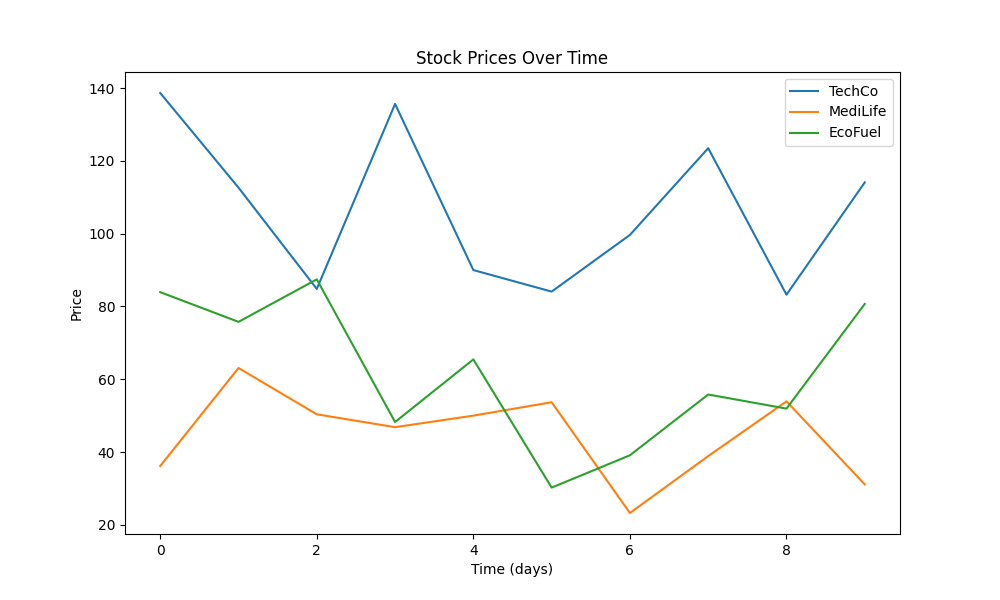
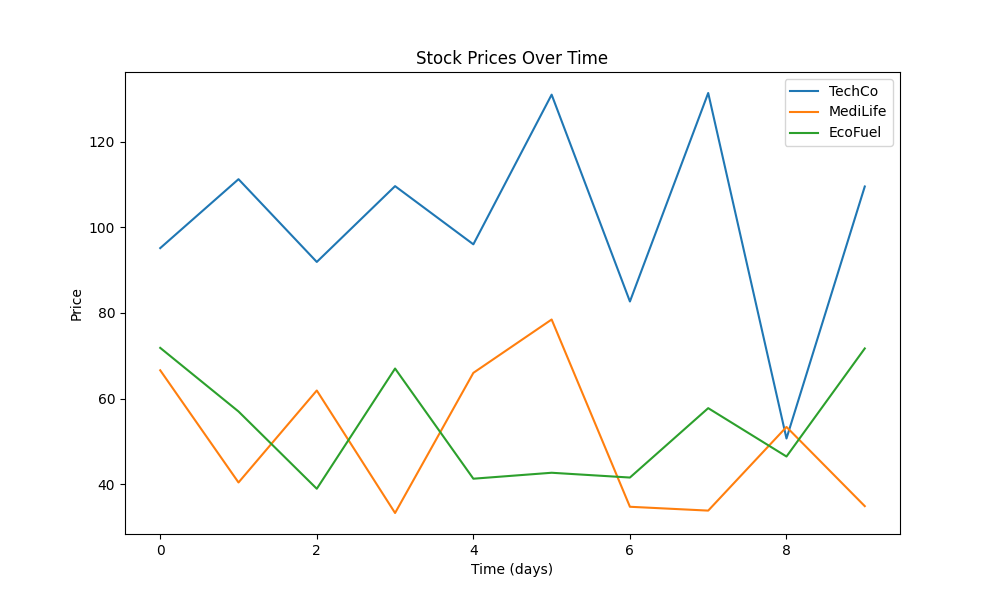
WIP Stocks 1.0

diff --git a/templates/stock_market.html b/templates/stock_market.html
@@ -5,49 +5,55 @@
     <meta name="viewport" content="width=device-width, initial-scale=1.0">
     <title>Investment Center</title>
     <link rel="stylesheet" type="text/css" href="{{ url_for('static', filename='css/styles.css') }}">
+    <script>
+        // JavaScript for showing stock list on hover
+        function showStocks(category) {
+            document.getElementById(category).style.display = 'block';
+        }
+
+        function hideStocks(category) {
+            document.getElementById(category).style.display = 'none';
+        }
+    </script>
 </head>
 <body>
     <div class="container">
         <h1>Investment Center</h1>
-        <p>Here you can buy or sell stocks.</p>
+        <p>Hover over a category to view stocks, and click a stock to view its graph.</p>
 
-        <!-- Stock list with buy/sell buttons -->
-        <div class="stock-list">
+        <!-- Stock categories with hover effect -->
+        <div class="stock-categories">
             {% for category, stocks in stock_market.items() %}
-            <h2>{{ category }} Stocks</h2>
-            <table>
-                <tr>
-                    <th>Stock</th>
-                    <th>Price</th>
-                    <th>Action</th>
-                </tr>
-                {% for stock, price in stocks.items() %}
-                <tr>
-                    <td>{{ stock }}</td>
-                    <td>${{ price }}</td>
-                    <td>
-                        <form action="/buy_stock" method="POST">
-                            <input type="hidden" name="stock_name" value="{{ stock }}">
-                            <button type="submit" class="btn-action">Buy</button>
-                        </form>
-                        <form action="/sell_stock" method="POST">
-                            <input type="hidden" name="stock_name" value="{{ stock }}">
-                            <button type="submit" class="btn-action">Sell</button>
-                        </form>
-                    </td>
-                </tr>
-                {% endfor %}
-            </table>
+            <div class="category" onmouseover="showStocks('{{ category }}')" onmouseout="hideStocks('{{ category }}')">
+                <h2>{{ category }}</h2>
+                <ul id="{{ category }}" class="stock-list" style="display:none;">
+                    {% for stock in stocks.keys() %}
+                    <li>
+                        <a href="/view_stock/{{ stock }}">{{ stock }}</a>
+                    </li>
+                    {% endfor %}
+                </ul>
+            </div>
             {% endfor %}
+        </div>
+
+        <!-- Player's Stock Profile -->
+        <div class="player-profile">
+            <h2>Your Stock Profile</h2>
+            <ul>
+                {% for stock in player_portfolio %}
+                <li>{{ stock }}: {{ player_data['stock_investments'][stock] }}</li>
+                {% endfor %}
+            </ul>
+            <form action="/liquidate_all" method="POST">
+                <button type="submit" class="btn-action">Liquidate All Investments</button>
+            </form>
         </div>
 
         <!-- Button to go back to town -->
         <form action="/town" method="GET">
             <button type="submit" class="btn-back">Go Back to Town</button>
         </form>
-
-        <!-- Graph display for the stocks -->
-        <img src="{{ url_for('static', filename='images/stock_chart.png') }}" alt="Stock Chart">
     </div>
 </body>
 </html>

diff --git a/static/css/styles.css b/static/css/styles.css
@@ -182,3 +182,62 @@ a:hover {
 .stock-list th {
     background-color: #f2f2f2;
 }
+
+.container {
+    width: 80%;
+    margin: 0 auto;
+}
+
+.stock-categories {
+    display: flex;
+    flex-wrap: wrap;
+    justify-content: space-around;
+}
+
+.category {
+    background-color: #f0f0f0;
+    padding: 10px;
+    border: 1px solid #ccc;
+    margin: 10px;
+    width: 20%;
+    text-align: center;
+}
+
+.stock-list {
+    list-style-type: none;
+    padding: 0;
+}
+
+.stock-list li {
+    margin: 5px 0;
+}
+
+.stock-list a {
+    text-decoration: none;
+    color: #007bff;
+}
+
+.stock-list a:hover {
+    text-decoration: underline;
+}
+
+.player-profile {
+    margin-top: 30px;
+    padding: 10px;
+    border: 1px solid #ccc;
+    background-color: #f9f9f9;
+}
+
+.btn-action, .btn-back {
+    background-color: #007bff;
+    color: white;
+    padding: 10px 20px;
+    margin-top: 10px;
+    border: none;
+    cursor: pointer;
+}
+
+.btn-action:hover, .btn-back:hover {
+    background-color: #0056b3;
+}
+

diff --git a/templates/view_stock.html b/templates/view_stock.html
@@ -1,0 +1,22 @@
+<!DOCTYPE html>
+<html lang="en">
+<head>
+    <meta charset="UTF-8">
+    <meta name="viewport" content="width=device-width, initial-scale=1.0">
+    <title>{{ stock_name }} Stock Graph</title>
+    <link rel="stylesheet" type="text/css" href="{{ url_for('static', filename='css/styles.css') }}">
+</head>
+<body>
+    <div class="container">
+        <h1>{{ stock_name }} Price History</h1>
+        <p>Current Price: ${{ stock_price }}</p>
+
+        <img src="{{ url_for('static', filename='images/' + stock_name + '_chart.png') }}" alt="{{ stock_name }} Stock Graph">
+
+        <br>
+        <form action="/investment_center" method="GET">
+            <button type="submit" class="btn-back">Back to Investment Center</button>
+        </form>
+    </div>
+</body>
+</html>

diff --git a/app.py b/app.py
@@ -16,11 +16,13 @@ player_data = {
     'health': 100,
     'mental_state': 100,
     'day': 1,
-    'time': 6,  # Start at 6 AM
-    'period': 'AM',  # Start with AM
+    'time': 6,
+    'period': 'AM',
+    'stock_investments': {}  # Track player's stock investments
 }
 
-# Fake stock market data
+
+# Define stock categories and initial data
 categories = {
     "Technology": ["TechCo", "InnoSoft", "MicroWeb", "CloudGen", "DataFlow", "QuantumAI", "GreenEnergy", "SmartSys", "NetCom", "CyberTech"],
     "Healthcare": ["MediLife", "PharmaPlus", "BioHealth", "WellnessCorp", "GeneNext", "CarePlan", "VaccineX", "TheraMed", "GlobalHealth", "MedSolutions"],
@@ -28,6 +30,54 @@ categories = {
     "Finance": ["SafeBank", "WealthyTrust", "CapitalGroup", "InvestCo", "LoanSecure", "GlobalInvest", "MoneyStream", "CashHold", "FundMate", "EquityPlus"],
     "Consumer Goods": ["FreshFood", "DrinkLife", "SafeHome", "DailyGoods", "CleanCorp", "HomeEssentials", "QuickSnacks", "StyleBrand", "LuxCloth", "HappyHome"]
 }
+
+# Initialize stock_price_history for all stocks in the categories
+stock_price_history = {}
+
+# For each category and stock, generate random price history
+for category, stocks in categories.items():
+    for stock in stocks:
+        stock_price_history[stock] = [random.uniform(50, 150) for _ in range(10)]  # Generate 10 days of random prices
+
+# Generate specific stock graph
+def generate_stock_graph(stock_name):
+    prices = stock_price_history.get(stock_name, [])
+    plt.figure(figsize=(10, 6))
+    plt.plot(prices, label=stock_name)
+    plt.title(f"{stock_name} Price History")
+    plt.xlabel("Days")
+    plt.ylabel("Price")
+    plt.legend()
+
+    # Save the graph in the static directory
+    if not os.path.exists('static/images'):
+        os.makedirs('static/images')
+    plt.savefig(f'static/images/{stock_name}_chart.png')
+    plt.close()
+
+
+# Route to view a specific stock's graph
+@app.route('/view_stock/<stock_name>')
+def view_stock(stock_name):
+    stock_name = stock_name.capitalize()  # Normalize case (or use lower())
+    stock_price = stock_market.get(stock_name, None)
+    if stock_price is None:
+        print("Available stocks in stock_market:", stock_market.keys())
+        return f"Stock {stock_name} not found", 404
+    generate_stock_graph(stock_name)
+    return render_template('view_stock.html', stock_name=stock_name, stock_price=stock_price, player_data=player_data)
+
+
+
+# Route to liquidate all investments
+@app.route('/liquidate_all', methods=['POST'])
+def liquidate_all():
+    total_value = sum(player_data['stock_investments'].values())
+    player_data['money'] += total_value  # Add all stock value to player's money
+    player_data['stock_investments'] = {}  # Clear stock investments
+    return redirect(url_for('investment_center'))
+
+# Fake stock market data
 
 starting_prices = {
     "Technology": 150, "Healthcare": 100, "Energy": 50, "Finance": 80, "Consumer Goods": 60
@@ -38,9 +88,16 @@ volatility_factors = {
 }
 
 # Initialize stocks with starting prices
+# Ensure that stock_market is initialized for all stocks in categories
+# Initialize stock prices for each stock in categories
 stock_market = {}
+
+# Loop through categories and populate stock_market with random prices
 for category, stocks in categories.items():
-    stock_market[category] = {stock: starting_prices[category] for stock in stocks}
+    for stock in stocks:
+        stock_market[stock] = random.uniform(50, 150)  # Random price for each stock
+
+
 
 # Simulate stock price updates
 def update_stock_price(category, price):
@@ -153,31 +210,26 @@ def investment_center():
 @app.route('/buy_stock', methods=['POST'])
 def buy_stock():
     stock_name = request.form['stock_name']
-    
-    # Find the stock and buy it
-    for category, stocks in stock_market.items():
-        if stock_name in stocks:
-            stock_price = stocks[stock_name]
-            if player_data['money'] >= stock_price:  # Ensure player has enough money
-                player_data['money'] -= stock_price
-                player_data['investments'] += stock_price  # Add stock value to investments
-                return redirect(url_for('investment_center'))
+    stock_price = stock_market.get(stock_name)
+
+    if player_data['money'] >= stock_price:  # Ensure player has enough money
+        player_data['money'] -= stock_price
+        player_data['stock_investments'][stock_name] = player_data['stock_investments'].get(stock_name, 0) + stock_price  # Track the investment
+        return redirect(url_for('investment_center'))
 
     return redirect(url_for('investment_center'))
 
 @app.route('/sell_stock', methods=['POST'])
 def sell_stock():
     stock_name = request.form['stock_name']
-    
-    # Find the stock and sell it
-    for category, stocks in stock_market.items():
-        if stock_name in stocks:
-            stock_price = stocks[stock_name]
-            player_data['money'] += stock_price  # Add money from selling the stock
-            player_data['investments'] -= stock_price  # Deduct from investments
-            return redirect(url_for('investment_center'))
+    stock_price = stock_market.get(stock_name)
+
+    if stock_name in player_data['stock_investments']:
+        player_data['money'] += player_data['stock_investments'].pop(stock_name)  # Remove investment and add money back
+        return redirect(url_for('investment_center'))
 
     return redirect(url_for('investment_center'))
+
 
 # Decrease health and mental state after working
 def reduce_health_mental_state():
